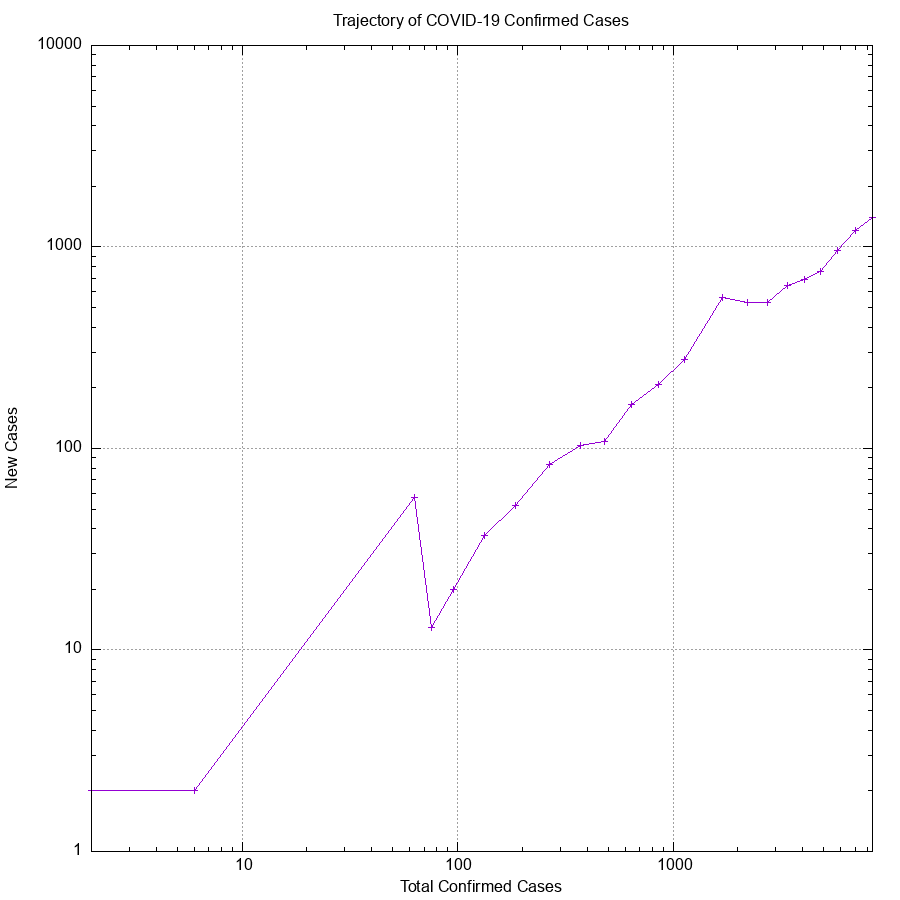
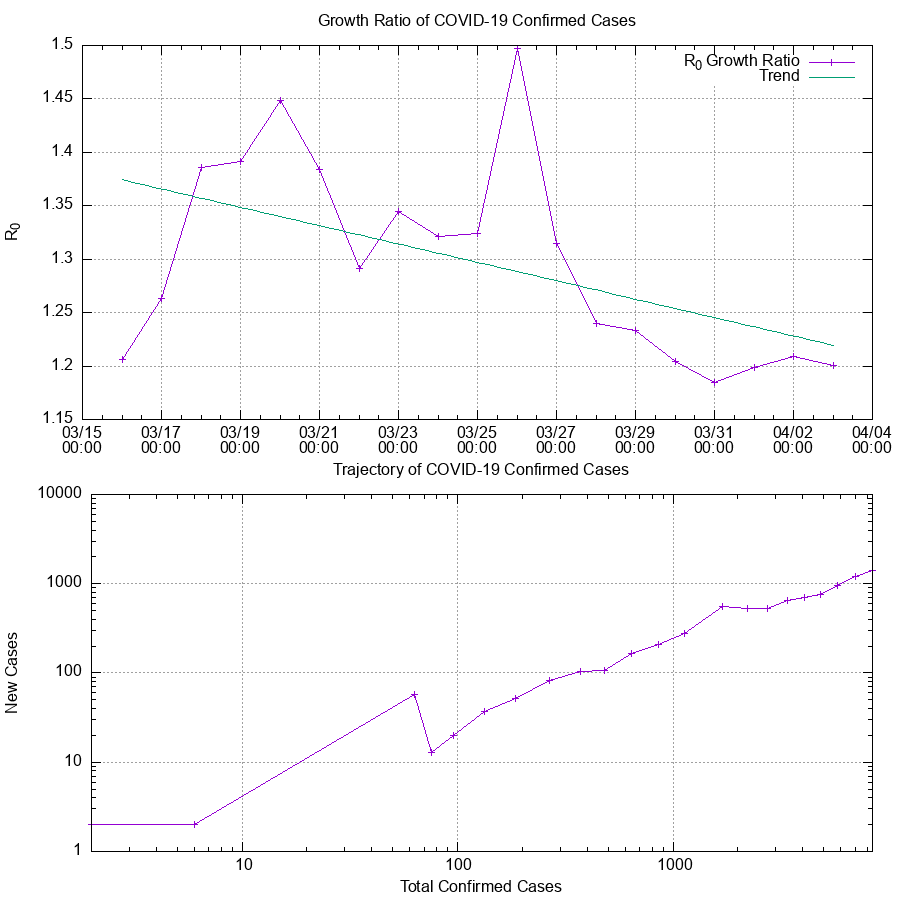
Add R0 graph

diff --git a/README.md b/README.md
@@ -49,6 +49,10 @@ The image file will be updated at `cases.png`
 Below are graphs of confirmed cases, fatalities, and other potentially useful
 data generated using the most recent available data and `gnuplot`.
 
+R<sub>0</sub> is the 'Growth Factor'.
+In the most basic terms, this is how many new cases are created by existing
+cases.
+
 ![Graph](cases.png)
 
 ![Trajectory](trajectory.png)
